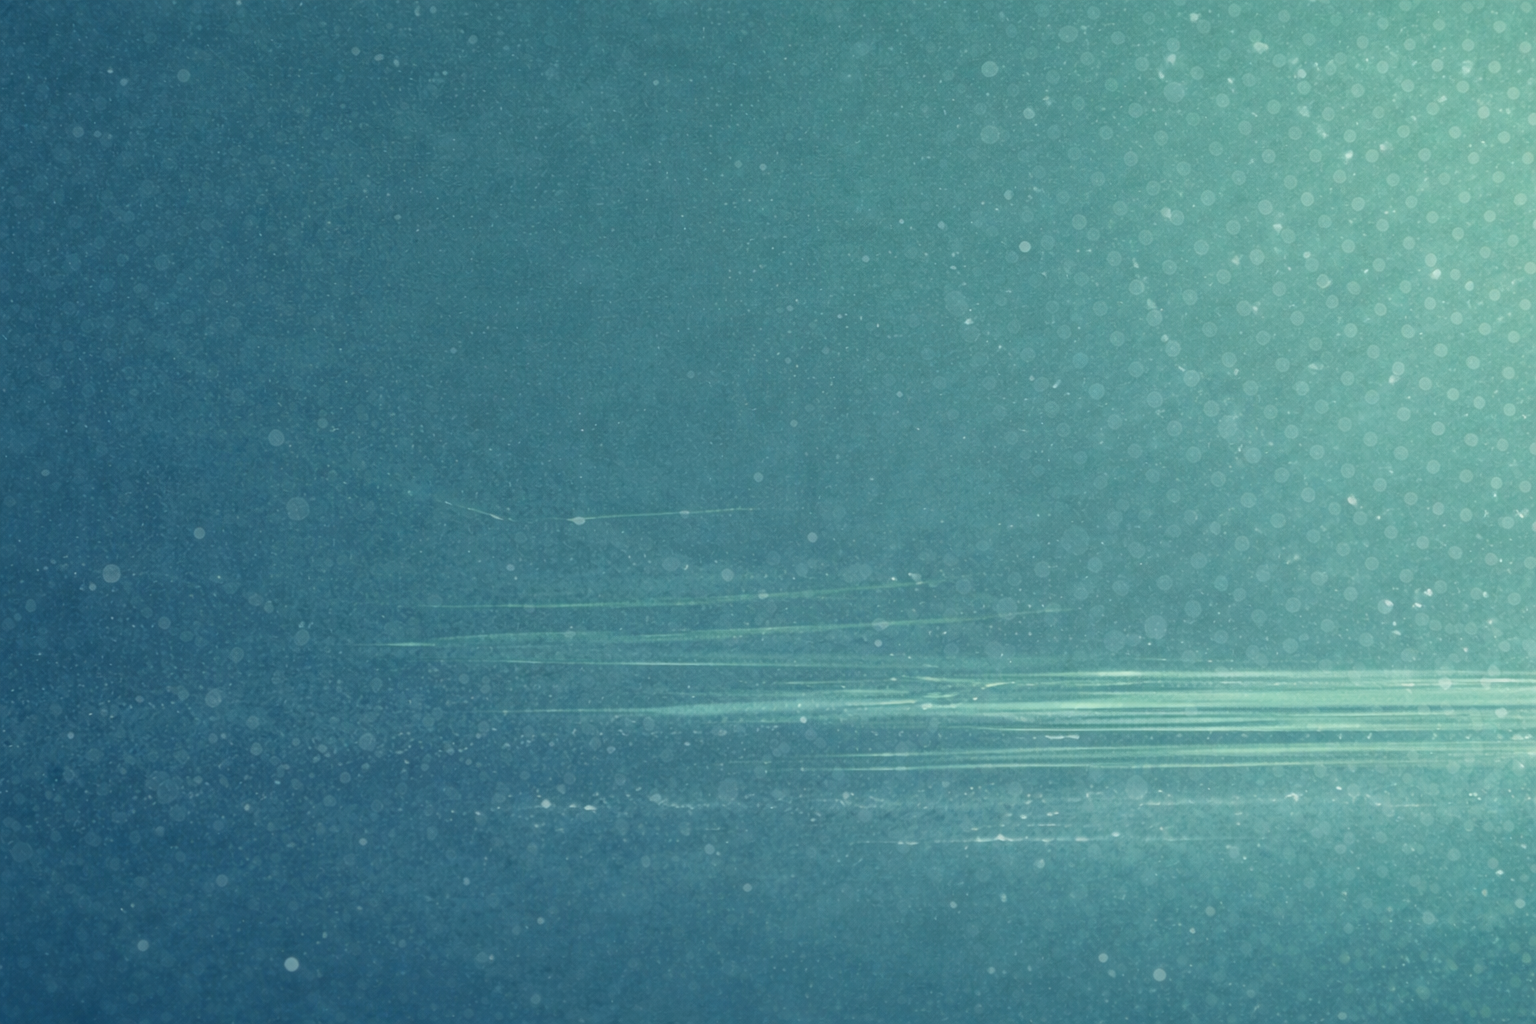
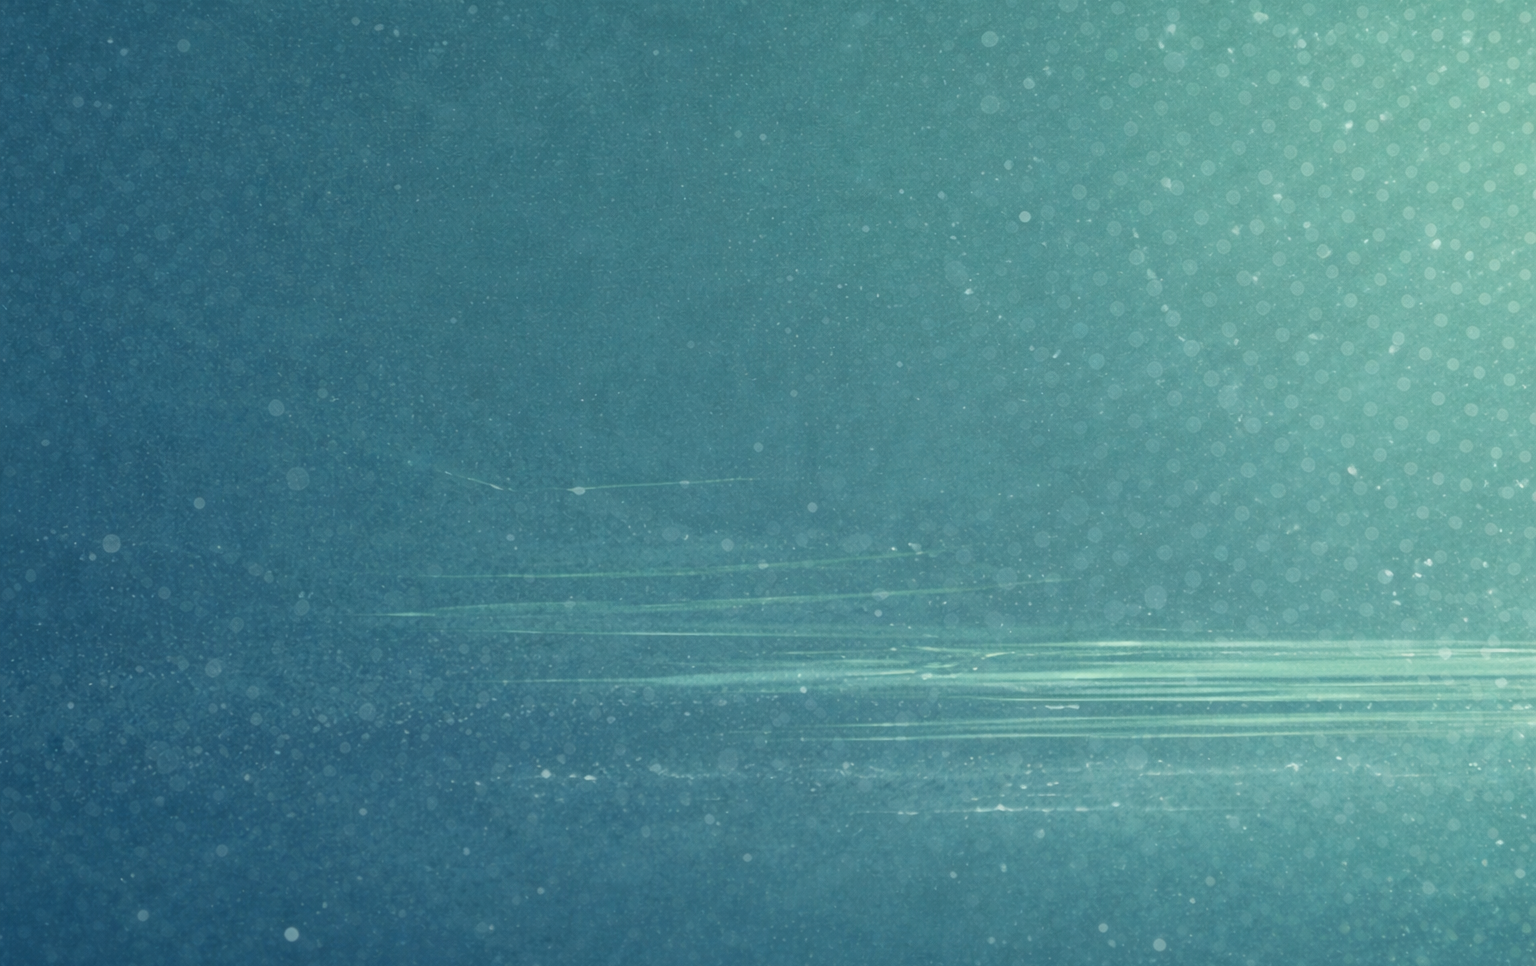
feat: Implementa layout da página inicial (Início.png) e ajusta header e rodapé

diff --git a/base_statics/css/inicio.css b/base_statics/css/inicio.css
@@ -1,0 +1,124 @@
+/* ==============================
+   PÁGINA INÍCIO
+   ============================== */
+
+/* Fundo da página Início com textura */
+body.inicio-page {
+    background-image: url("/static/img/bg-body.png"); /* ajuste a extensão se for .jpg */
+    background-size: cover;
+    background-position: center top;
+    background-repeat: no-repeat;
+}
+
+/* Seção inteira da página Início */
+.rb-section-inicio {
+    margin-top: 8px;                 /* aproxima do menu */
+}
+
+/* Texto de instrução abaixo do menu */
+.rb-section-inicio .rb-section-subtitle {
+    font-size: 15px;
+    color: #16404b;
+    text-align: left;
+    line-height: 1.6;
+    margin-bottom: 24px;
+}
+
+/* Grid dos 4 eixos (2 colunas por 2 linhas) */
+.rb-eixos-grid {
+    display: grid;
+    grid-template-columns: repeat(2, minmax(0, 1fr));
+    column-gap: 80px;  /* mais espaço horizontal entre os cards */
+    row-gap: 40px;     /* mais espaço vertical */
+    justify-items: center;
+}
+
+/* Card de eixo (container) */
+.rb-eixo-card {
+    display: flex;
+    flex-direction: column;
+    width: 320px;
+    height: 220px;
+    border-radius: 18px;
+    text-decoration: none;
+    background: rgba(255, 255, 255, 0.78);
+    box-shadow: 0 3px 8px rgba(0,0,0,0.18);
+    overflow: hidden;
+    transition: transform 0.15s ease-out,
+                box-shadow 0.15s ease-out;
+}
+
+/* Faixa azul do topo do card (título) */
+.rb-eixo-card-header {
+    background: #2f7fa5;
+    color: #ffffff;
+    font-size: 18px;
+    font-weight: 700;
+    text-align: center;
+    padding: 10px 16px;
+}
+
+/* Corpo do card, onde fica o ícone */
+.rb-eixo-card-body {
+    flex: 1;
+    display: flex;
+    align-items: center;
+    justify-content: center;
+}
+
+/* Ícone central */
+.rb-eixo-icon {
+    font-size: 64px;                 /* deixa grande como no mock */
+    color: #16404b;
+}
+
+/* Hover: pequeno zoom e sombra mais forte */
+.rb-eixo-card:hover {
+    transform: translateY(-3px);
+    box-shadow: 0 6px 14px rgba(0,0,0,0.22);
+}
+
+.rb-eixo-card:hover .rb-eixo-card-header {
+    background: #246280;             /* um pouco mais escuro no hover */
+}
+
+/* Responsivo: 1 card por linha em telas pequenas */
+@media (max-width: 768px) {
+    .rb-eixos-grid {
+        grid-template-columns: 1fr;
+        gap: 20px;
+    }
+
+    .rb-eixo-card {
+        width: 100%;
+        max-width: 320px;
+    }
+}
+
+/* Ajustes para o container principal na página Início */
+body.inicio-page .rb-main {
+    background: transparent;   /* sem bloco azul-claro */
+    max-width: 1200px;         /* mais largo, como no mock */
+    margin: 16px auto 32px;    /* centralizado verticalmente, com espaço antes do rodapé */
+    padding: 0 24px;           /* só padding horizontal */
+}
+
+/* Seção inteira da página Início */
+.rb-section-inicio {
+    margin-top: 8px;
+    padding-top: 8px; /* leve respiro abaixo do menu */
+}
+
+/* Texto de instrução abaixo do menu */
+.rb-section-inicio .rb-section-subtitle {
+    font-size: 15px;
+    color: #ffffff;         /* no mock o texto está claro */
+    text-align: left;
+    line-height: 1.6;
+    margin-bottom: 32px;    /* um pouco mais de espaço antes dos cards */
+}
+
+/* Trechos em negrito no texto */
+.rb-section-inicio .rb-section-subtitle strong {
+    font-weight: 700;
+}

diff --git a/base_statics/css/landing.css b/base_statics/css/landing.css
@@ -76,7 +76,7 @@
 
 .lp-agenda-btn {
     display: block;
-    background: #2f6b7c;
+    background: #448396;
     color: #ffffff;
     text-decoration: none;
     padding: 7px 29px;
@@ -87,7 +87,7 @@
 }
 
 .lp-agenda-btn:hover {
-    background: #1e4d5e;
+    background: #448396;
 }
 
 /* ---- CARDS COLUNA DIREITA ---- */
@@ -139,7 +139,7 @@
     display: block;
     width: fit-content;
     margin: 0 auto;
-    background: #2f6b7c;
+    background: #448396;
     color: #ffffff;
     text-decoration: none;
     padding: 8px 32px;
@@ -161,7 +161,7 @@
     display: block;
     width: fit-content;
     margin: 0 auto;
-    background: #2f6b7c;
+    background: #448396;
     color: #ffffff;
     text-decoration: none;
     padding: 10px 29px;
@@ -173,7 +173,7 @@
 }
 
 .lp-card-btn:hover {
-    background: #1e4d5e;
+    background: #448396;
 }
 
 /* ---- RESPONSIVO ---- */
@@ -188,4 +188,9 @@
     .lp-card h2 {
         font-size: 17px;
     }
+}
+
+/* Esconde o menu de navegação na landing page */
+body.lp-body .rb-main-nav {
+    display: none !important;
 }

diff --git a/base_templates/base.html b/base_templates/base.html
@@ -11,7 +11,7 @@
     <link rel="stylesheet" href="{% static 'css/base.css' %}">
     {% block extra_head %}{% endblock %}
 </head>
-<body class="rb-body">
+<body class="{% block body_class %}rb-body{% endblock %}">
 
 <div class="rb-header-wrapper">
     <header class="rb-header">
@@ -47,12 +47,12 @@
 <!-- RODAPE COM ONDA -->
 <footer class="rb-footer-landing">
 
-    <!-- Onda superior -->
+        <!-- Onda superior -->
     <div class="rb-footer-wave" aria-hidden="true">
         <svg xmlns="http://www.w3.org/2000/svg"
              viewBox="0 0 1440 100"
              preserveAspectRatio="none">
-            <path fill="#D7EDEF"
+            <path fill="#d7edef"
                   d="M0,0 L0,60 C360,100 1080,100 1440,60 L1440,0 Z" />
         </svg>
     </div>
@@ -135,8 +135,7 @@
 
         </div>
 
-    </div><!-- fim footer-inner -->
-
+    </div>
 </footer>
 
 {% block extra_js %}{% endblock %}

diff --git a/base_statics/css/base.css b/base_statics/css/base.css
@@ -17,7 +17,9 @@ body.rb-body {
     background-repeat: no-repeat;
     width: 100%;
     flex-shrink: 0;
-    padding: 16px 0 12px;
+    padding: 40px 0 16px;
+    margin-top: -20px; /* Ajuste para cobrir o espaço do header */
+
 }
 
 /* Header interno mais estreito */
@@ -70,7 +72,7 @@ body.rb-body {
 /* MENU NAV */
 .rb-main-nav {
     margin-top: 8px;
-    background-color: #e8f0f7;
+    background-color: #ffffff;
     border-radius: 0;         
     padding: 6px 24px;
     border-top: 2px solid #2f7fa5;         

diff --git a/templates/municipios/inicio.html b/templates/municipios/inicio.html
@@ -1,7 +1,13 @@
 {% extends "base.html" %}
+{% load static %}
 
 {% block title %}Radar Brasil - Inicio{% endblock %}
 {% block menu_inicio_active %}active{% endblock %}
+{% block body_class %}rb-body inicio-page{% endblock %}
+
+{% block extra_head %}
+    <link rel="stylesheet" href="{% static 'css/inicio.css' %}">
+{% endblock %}
 
 {% block content %}
 <section class="rb-section rb-section-inicio">

diff --git a/templates/municipios/landing.html b/templates/municipios/landing.html
@@ -1,11 +1,12 @@
-{% extends "base.html" %}
+{% extends 'base.html' %}
 {% load static %}
 
-{% block title %}Radar Brasil - Bem-vindo{% endblock %}
-
 {% block extra_head %}
-<link rel="stylesheet" href="{% static 'css/landing.css' %}">
+    <link rel="stylesheet" href="{% static 'css/landing.css' %}">
 {% endblock %}
+
+{% block body_class %}rb-body lp-body{% endblock %}
+
 
 {% block content %}
 
